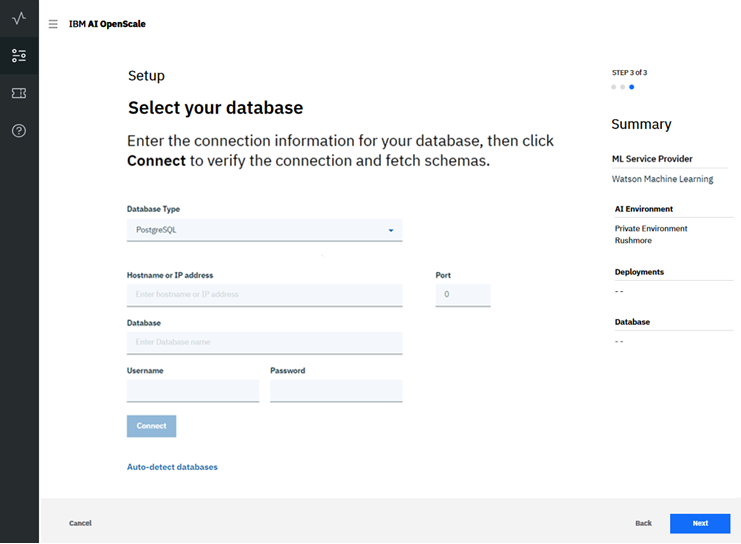
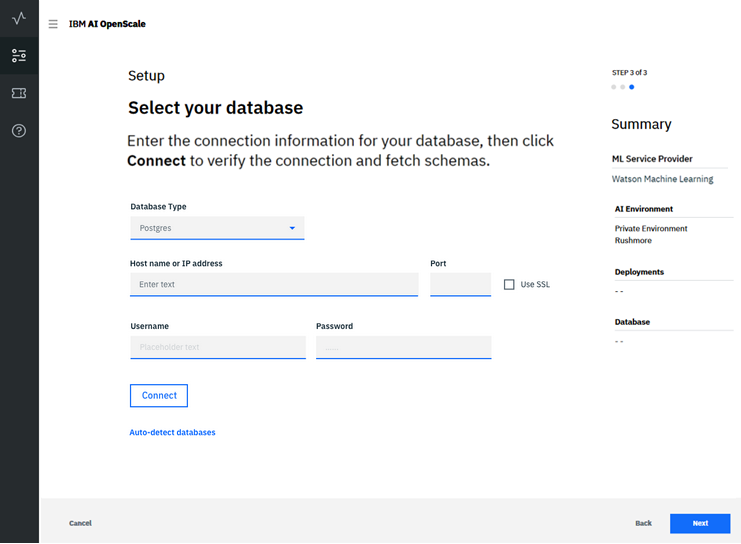
Fixes issue #4337

diff --git a/connect-db.md b/connect-db.md
@@ -1,8 +1,8 @@
 ---
 
 copyright:
-  years: 2018
-lastupdated: "2018-12-13"
+  years: 2018, 2019
+lastupdated: "2018-01-24"
 
 ---
 
@@ -46,22 +46,27 @@ To proceed with using the free Lite plan database, simply select that option, th
 
 1.  Once you have selected the "Use existing or purchase new database" option, {{site.data.keyword.aios_short}} checks your {{site.data.keyword.Bluemix_notm}} account to locate any existing databases.
 
-    For the current release, only a Db2 database is supported.
-  {: note}
+    For the current release, only a PostgreSQL or Db2 database is supported.
+    {: note}
 
-1.  Select your existing database type (Db2), then a database from the **Database** drop-down menu, and then a **Schema**:
+1.  Select your existing database type (PostgreSQL or Db2), then a database from the **Database** drop-down menu, and then a **Schema**:
 
     ![Select database](images/gs-config-database3.png)
 
-    You can also click **Select a different location** to specify a database location outside of your {{site.data.keyword.Bluemix_notm}} account.
+1.  You can also click **Select a different location** to specify a database location outside of your {{site.data.keyword.Bluemix_notm}} account.
 
-1.  Select the **Database Type**, then fill in the connection information for your database location and click **Connect**:
+    - Select the **Database Type**, then fill in the connection information for your database location and click **Connect**:
 
-    ![Select database](images/gs-config-database4.png)
+       If you are using a Db2 database with a self-signed certificate, select the optional "Use SSL" checkbox and enter the content of the certificate in the "Certificate Code" field to properly configure the SSL connection.
+       {: note}
 
-1.  Once you have successfully connected, you can select a schema.
+      ![Select database SSL off](images/gs-config-database4.png)
 
-    ![Select database](images/gs-config-database5.png)
+      ![Select database SSL on](images/gs-config-database4a.png)
+
+    - Once you have successfully connected, you can select a schema.
+
+      ![Select schema](images/gs-config-database5.png)
 
 Click **Next** to review the summary data and click **Save**.
 
@@ -77,7 +82,7 @@ Select a deployment, in this case "Fraud Detector", and then use the provided `c
 The fields and values in the code snippets need to be substituted with your real values, as the ones provided are only examples.
 {: important}
 
-![Select database](images/config-send-scoring.png)
+![Send scoring request](images/config-send-scoring.png)
 
 Once you have run your payload logging, you will see a checkmark in the "Ready to Monitor" column for the selected deployment. Click **Configure Monitors** to continue.
 
